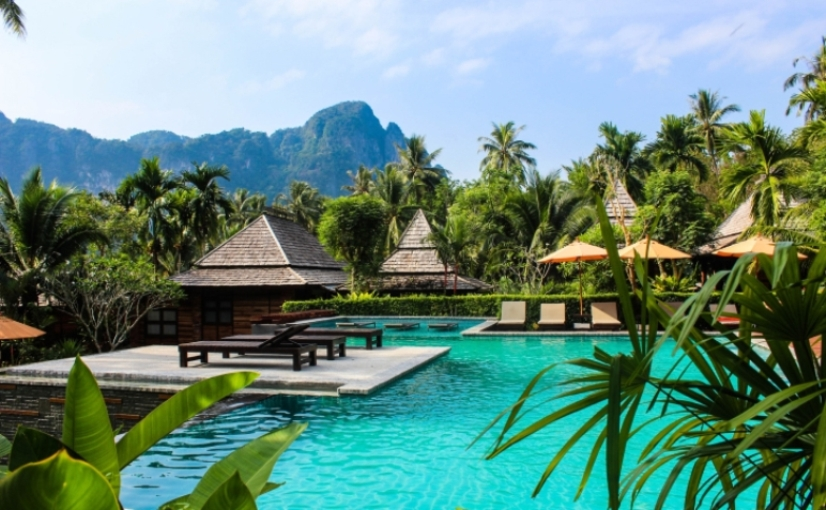
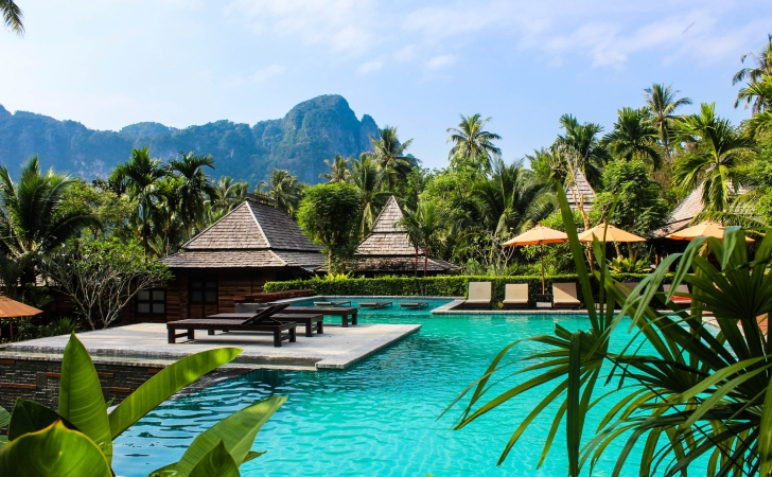
fix: slider

Changed region(s): [[0.8394, 0.9979, 0.8705, 1.0]]

diff --git a/index.html b/index.html
@@ -106,19 +106,19 @@
               <div class="swiper-wrapper">
                 <!-- Slides -->
                 <div class="swiper-slide">
-                  <img src="img/slide1.jpg" alt="slide1" />
+                  <img class="swiper-slide__image" src="img/slide1.jpg" alt="slide1" />
                 </div>
                 <div class="swiper-slide">
-                  <img src="img/slide2.jpg" alt="slide2" />
+                  <img class="swiper-slide__image" src="img/slide2.jpg" alt="slide2" />
                 </div>
                 <div class="swiper-slide">
-                  <img src="img/slide3.jpg" alt="slide3" />
+                  <img class="swiper-slide__image" src="img/slide3.jpg" alt="slide3" />
                 </div>
                 <div class="swiper-slide">
-                  <img src="img/slide4.jpg" alt="slide4" />
+                  <img class="swiper-slide__image" src="img/slide4.jpg" alt="slide4" />
                 </div>
                 <div class="swiper-slide">
-                  <img src="img/slide5.jpg" alt="slide5" />
+                  <img class="swiper-slide__image" src="img/slide5.jpg" alt="slide5" />
                 </div>
               </div>
 

diff --git a/css/style.css b/css/style.css
@@ -535,7 +535,6 @@ template {
 .swiper {
   width: 100%;
   height: 450px;
-  background-color: red;
   position: relative;
   border-radius: 8px;
 }
@@ -574,6 +573,11 @@ template {
 .slider-button--prev {
   left: 18px;
   background-image: url(../img/arrow-prev.svg);
+}
+
+.swiper-slide__image {
+  min-height: 100%;
+  object-fit: cover;
 }
 
 @media (max-width: 1200px) {
@@ -681,6 +685,10 @@ template {
 
   .swiper {
     height: 350px;
+  }
+  .swiper-slide__image {
+    min-height: 100%;
+    object-fit: cover;
   }
 }
 @media (max-width: 576px) {

diff --git a/sass/blocks/_hotel.sass b/sass/blocks/_hotel.sass
@@ -58,7 +58,7 @@
 .swiper
   width: 100%
   height: 450px
-  background-color: red
+  // background-color: red
   position: relative
   border-radius: 8px
 
@@ -93,3 +93,10 @@
     &--prev
       left: 18px
       background-image: url(../img/arrow-prev.svg)
+
+//делаем, чтобы картинки в слайдере были без полей  
+.swiper
+  &-slide
+    &__image
+      min-height: 100%
+      object-fit: cover

diff --git a/sass/_media.sass b/sass/_media.sass
@@ -86,6 +86,10 @@
 
   .swiper
     height: 350px
+    &-slide
+      &__image
+        min-height: 100%
+        object-fit: cover
 
 @media (max-width: 576px)
   .logo
